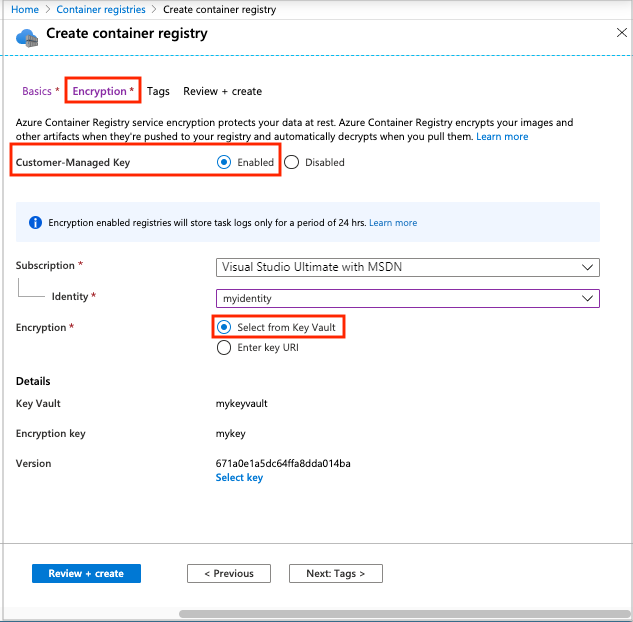
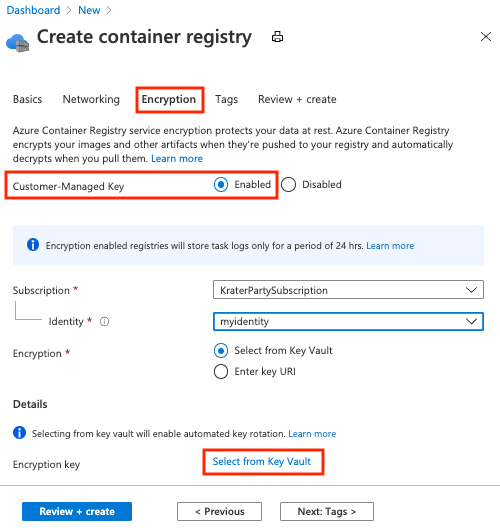
add portal steps

Changed region(s): [[0.0, 0.0, 1.0, 1.0], [0.54, 0.0606, 0.93, 0.0909]]

diff --git a/articles/container-registry/container-registry-customer-managed-keys.md b/articles/container-registry/container-registry-customer-managed-keys.md
@@ -2,7 +2,7 @@
 title: Encrypt registry with a customer-managed key
 description: Learn about encryption-at-rest of your Azure container registry, and how to encrypt your Premium registry with a customer-managed key stored in Azure Key Vault
 ms.topic: article
-ms.date: 11/17/2020
+ms.date: 12/03/2020
 ms.custom:
 ---
 
@@ -40,9 +40,6 @@ When you configure registry encryption with a customer-managed key, you have two
 * **Automatically update the key version** - To automatically update a customer-managed key when a new version is available in Azure Key Vault, omit the key version when you enable registry encryption with a customer-managed key. When a registry is encrypted with a non-versioned key, Azure Container Registry regularly checks the key vault for a new key version and updates the customer-managed key within 1 hour. Azure Container Registry automatically uses the latest version of the key.
 
 * **Manually update the key version** - To use a specific version of a key for registry encryption, specify that key version when you enable registry encryption with a customer-managed key. When a registry is encrypted with a specific key version, Azure Container Registry uses that version for encryption until you manually rotate the customer-managed key.
-
-> [!NOTE]
-> Currently you can only use the Azure CLI to configure the registry to automatically update the customer-managed key version. When using the portal to enable encryption, you must manually update the key version.
 
 For details, see [Choose key ID with or without key version](#choose-key-id-with-or-without-key-version) and [Update key version](#update-key-version), later in this article.
 
@@ -247,7 +244,7 @@ You use the identity's name in later steps.
 
 ### Create a key vault
 
-For steps to create a key vault, see [Quickstart: Create an Azure Key Vault with the Azure portal](../key-vault/general/quick-create-portal.md).
+For steps to create a key vault, see [Quickstart: Set and retrieve a secret from Azure Key Vault using the Azure portal](../key-vault/secrets/quick-create-portal.md).
 
 When creating a key vault for a customer-managed key, in the **Basics** tab, enable the **Purge protection** setting. This setting helps prevent data loss caused by accidental key or key vault deletions.
 
@@ -274,13 +271,15 @@ Alternatively, use [Azure RBAC for Key Vault](../key-vault/general/rbac-guide.md
     1. Assign access to **User assigned managed identity**.
     1. Select the resource name of your user-assigned managed identity, and select **Save**.
 
-### Create key
+### Create key (optional)
+
+Optionally create a key in the key vault for use to encrypt the registry. Follow these steps if you want to select a specific key version as a customer-managed key. 
 
 1. Navigate to your key vault.
 1. Select **Settings** > **Keys**.
 1. Select **+Generate/Import** and enter a unique name for the key.
 1. Accept the remaining default values and select **Create**.
-1. After creation, select the key and take note of the current key version.
+1. After creation, select the key and then select the current version. Copy the **Key identifier** for the key version.
 
 ### Create Azure container registry
 
@@ -288,10 +287,12 @@ Alternatively, use [Azure RBAC for Key Vault](../key-vault/general/rbac-guide.md
 1. In the **Basics** tab, select or create a resource group, and enter a registry name. In **SKU**, select **Premium**.
 1. In the **Encryption** tab, in **Customer-managed key**, select **Enabled**.
 1. In **Identity**, select the managed identity you created.
-1. In **Encryption**, select **Select from Key Vault**.
-1. In the **Select key from Azure Key Vault** window, select the key vault, key, and version you created in the preceding section.
+1. In **Encryption**, do one of the following:
+    1. To provide a non-versioned key that enables automatic updates of key versions, select **Select from Key Vault**, and then select a new key.
+       In the **Select key from Azure Key Vault** window, select an existing key vault and key, or **Create new**. 
+    1. To provide a versioned key, which doesn't support automatic updates of key values, select **Enter key URI**. Provide the key identifier of a versioned key. 
 1. In the **Encryption** tab, select **Review + create**.
-1. Select **Create** to create the registry instance.
+1. Select **Create** to deploy the registry instance.
 
 :::image type="content" source="media/container-registry-customer-managed-keys/create-encrypted-registry.png" alt-text="Create encrypted registry in the Azure portal":::
 
@@ -493,11 +494,12 @@ For example, to configure a new key:
 
 1. In the portal, navigate to your registry.
 1. Under **Settings**, select  **Encryption** > **Change key**.
-1. Select **Select key**.
 
     :::image type="content" source="media/container-registry-customer-managed-keys/rotate-key.png" alt-text="Rotate key in the Azure portal":::
-1. In the **Select key from Azure Key Vault** window, select the key vault and key you configured previously, and in **Version**, select **Create new**.
-1. In the **Create a key** window, select **Generate**, and then **Create**.
+1. In **Encryption**, do one of the following:
+    1. To provide a non-versioned key that enables automatic updates of key versions, select **Select from Key Vault**, and then select a new key.  
+       In the **Select key from Azure Key Vault** window, select an existing key vault and key, or **Create new**. 
+    1. To provide a versioned key, which doesn't support automatic updates of key values, select **Enter key URI**. Provide the key identifier of a versioned key.
 1. Complete the key selection and select **Save**.
 
 ## Revoke key
